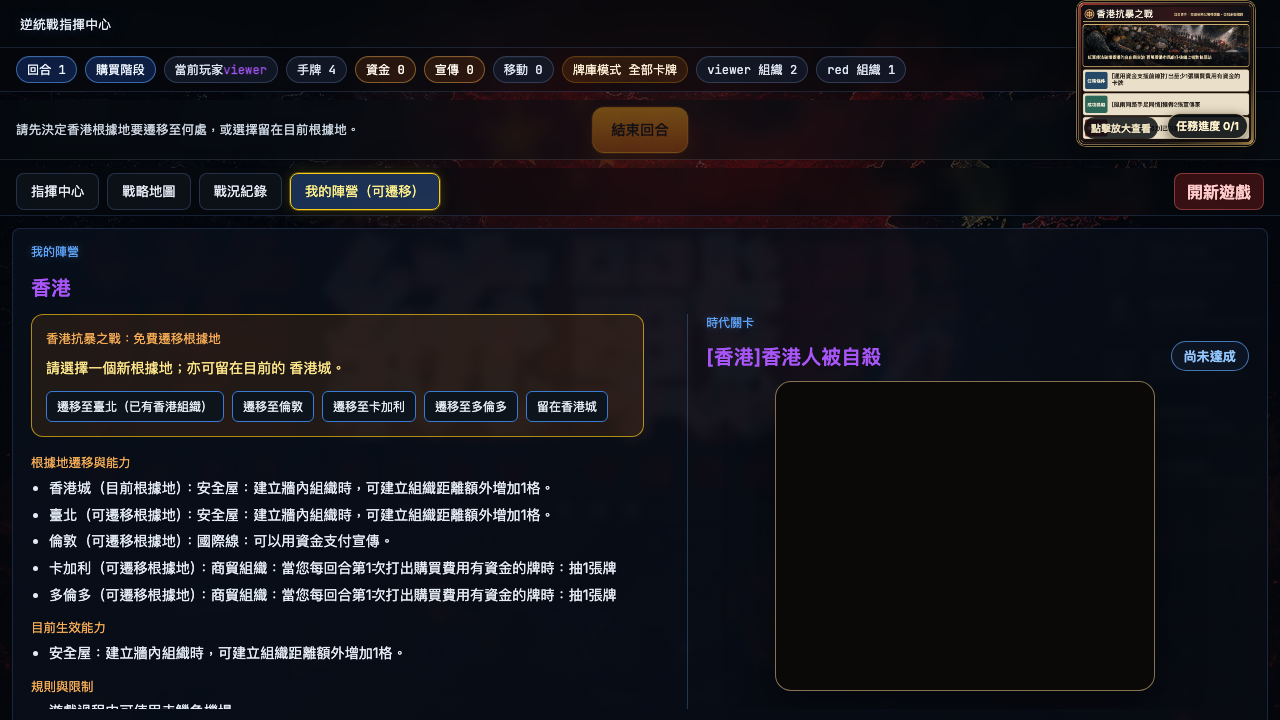
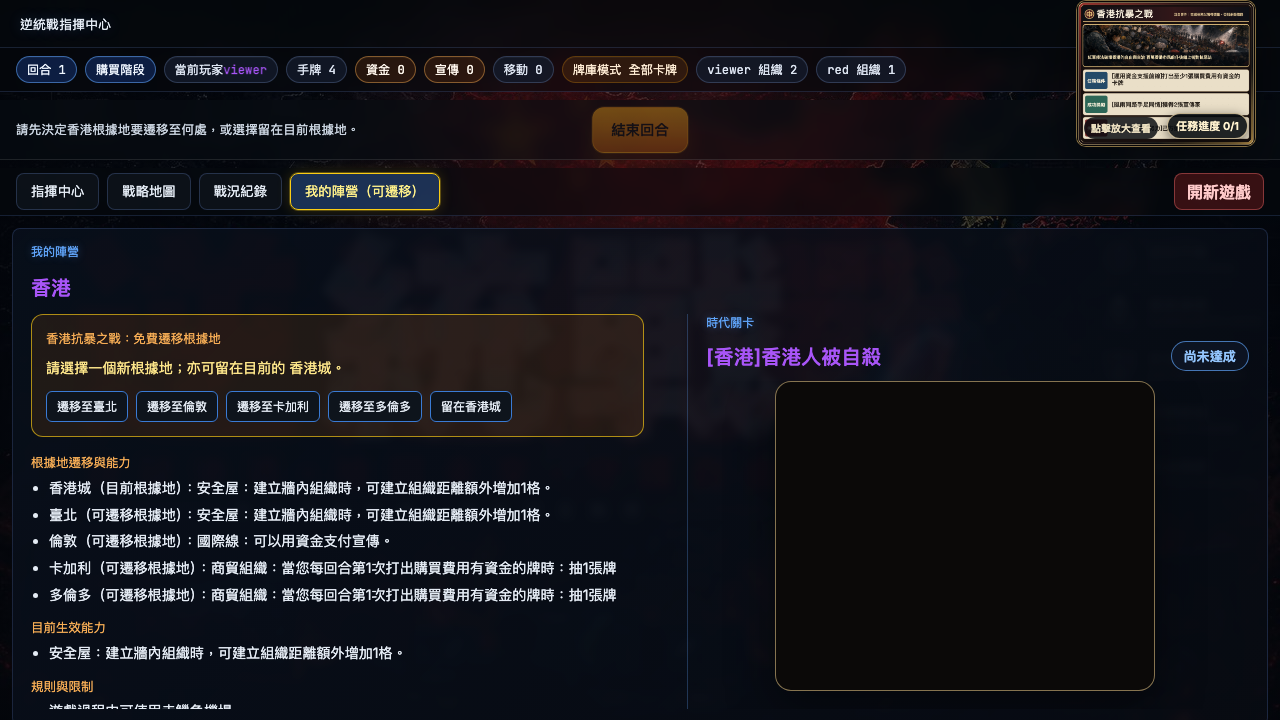
fix: 簡化香港根據地遷移按鈕

Changed region(s): [[0.0938, 0.5194, 0.5, 0.6111]]

diff --git a/static/app.js b/static/app.js
@@ -3099,9 +3099,7 @@ function renderMyFactionView(state = window.lastGameState || {}) {
             const occupied = occupiedTowns.has(base.name);
             const occupiedByOwnOrganization = ownOrganizationTowns.has(base.name);
             const blockedByOtherOrganization = occupied && !occupiedByOwnOrganization;
-            const occupancyLabel = blockedByOtherOrganization
-              ? '（已有其他陣營組織）'
-              : (occupiedByOwnOrganization ? '（已有香港組織）' : '');
+            const occupancyLabel = blockedByOtherOrganization ? '（已有其他陣營組織）' : '';
             return `<button type="button" class="base-choice-btn" data-hk-relocate-town="${escapeHtml(base.name)}" ${blockedByOtherOrganization ? 'disabled' : ''}>遷移至${escapeHtml(baseDisplayName(base.name))}${occupancyLabel}</button>`;
           }).join('')}
           <button type="button" class="base-choice-btn" data-hk-keep-base="1">留在${escapeHtml(baseDisplayName(baseName))}</button>

diff --git a/static/index.html b/static/index.html
@@ -339,6 +339,6 @@
 
 <script src="https://unpkg.com/leaflet@1.9.4/dist/leaflet.js"></script>
 <script src="/static/player_messages_zh_tw.js?v=player-message-i18n-20260801"></script>
-<script src="/static/app.js?v=hong-kong-relocation-before-handoff-20260816"></script>
+<script src="/static/app.js?v=hong-kong-clean-relocation-labels-20260816"></script>
 </body>
 </html>

diff --git a/scripts/validate_hong_kong_base_relocation_browser.py b/scripts/validate_hong_kong_base_relocation_browser.py
@@ -250,9 +250,10 @@ def main():
         own_taipei_button = page.locator('[data-hk-relocate-town="臺北"]')
         own_taipei_button.wait_for(state='visible', timeout=10000)
         record(
-            'own_organization_destination_is_enabled_before_turn_handoff',
+            'own_organization_destination_is_enabled_without_redundant_label',
             own_taipei_button.is_enabled()
-            and own_taipei_button.inner_text() == '遷移至臺北（已有香港組織）',
+            and own_taipei_button.inner_text() == '遷移至臺北'
+            and '已有香港組織' not in page.locator('.hk-base-relocation-panel').inner_text(),
             {'button': own_taipei_button.inner_text(), 'enabled': own_taipei_button.is_enabled()},
         )
         END_TURN_DECISION_SCREENSHOT.parent.mkdir(parents=True, exist_ok=True)

diff --git a/TODO.md b/TODO.md
@@ -26,7 +26,7 @@
 - [done] 大廳陣營選擇與遊戲內「我的陣營」均會列出香港城、臺北、倫敦、卡加利及多倫多的能力、目前根據地、可遷移根據地、解鎖事件及遷移後能力切換。
 - [done] 事件窗口開啟時，「我的陣營（可遷移）」會亮起，並提供四個遷移按鈕及「留在」按鈕。Browser proof **9/9 passed**；單元與 board-action 聚焦回歸 **8/8 passed**；規則 validator **5/5 passed**。
 - [done] 修正「香港抗暴之戰」任務失敗時，必要棄牌尚未完成卻提前顯示根據地按鈕，導致所有目的地都回覆「請先完成目前的選擇」。現在先完成事件要求的棄牌，再開啟根據地遷移窗口。臺北、倫敦、卡加利及多倫多四個目的地 Browser proof **15/15 passed**；截圖證據位於 `docs/records/faction-ui/hong-kong-base-relocation/`。
-- [done] 修正香港根據地遷移的換人時序。香港按下「結束回合」後，系統先完成補牌與「香港抗暴之戰」事件效果；若有必要棄牌，先完成棄牌，再要求香港選擇遷移或留在。香港完成決定後，才將行動權交給下一個陣營。香港可遷入已有香港組織的目的地；該組織成為根據地，原根據地組織保留。戰略地圖以 `🏕` 標示所有參戰陣營目前的根據地，並在香港遷移後即時移動標示。正式 Browser proof **23/23 passed**、香港規則 validator **6/6 passed**、香港聚焦 pytest **10/10 passed**、完整 pytest **364/364 passed**，console 0 errors。原始回報與修正後截圖位於 `docs/records/faction-ui/hong-kong-base-relocation/`。
+- [done] 修正香港根據地遷移的換人時序。香港按下「結束回合」後，系統先完成補牌與「香港抗暴之戰」事件效果；若有必要棄牌，先完成棄牌，再要求香港選擇遷移或留在。香港完成決定後，才將行動權交給下一個陣營。香港可遷入已有香港組織的目的地；該組織成為根據地，原根據地組織保留。遷移按鈕維持簡潔的「遷移至臺北」，不額外標示「已有香港組織」。戰略地圖以 `🏕` 標示所有參戰陣營目前的根據地，並在香港遷移後即時移動標示。正式 Browser proof **23/23 passed**、香港規則 validator **6/6 passed**、香港聚焦 pytest **10/10 passed**、完整 pytest **364/364 passed**，console 0 errors。原始回報與修正後截圖位於 `docs/records/faction-ui/hong-kong-base-relocation/`。
 - [done] 「全國人大召開」期間，香港以安全屋能力在牆內建立組織會計為「使用或觸發陣營特殊能力」；香港遷至不具安全屋的根據地後不會誤算。
 - [done] 完成全部陣營特殊能力的 `use_faction_ability` 追蹤稽核。補上游擊隊、殉道者／青山里、盟旗學校、華文傳媒／國際線、赤鱲角機場，並將紅軍派系、賭徒耳語、民族祭儀改為待決效果完成後才計入。能力聚焦測試 **25/25 passed**；正式 Browser proof **7/7 passed**；完整 pytest **360/360 passed**。完整矩陣見 `docs/records/factions/FACTION_ABILITY_EVENT_TRACKING_AUDIT.md`。
 
